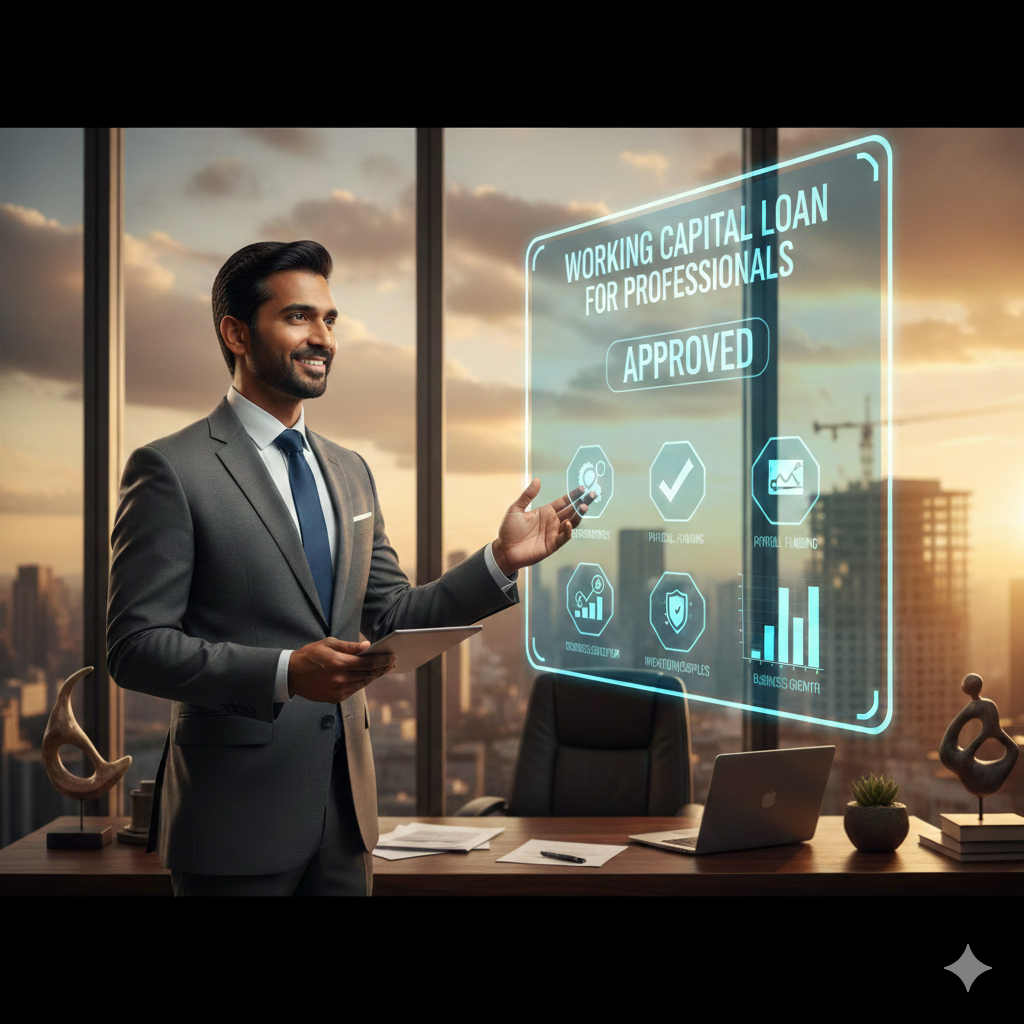
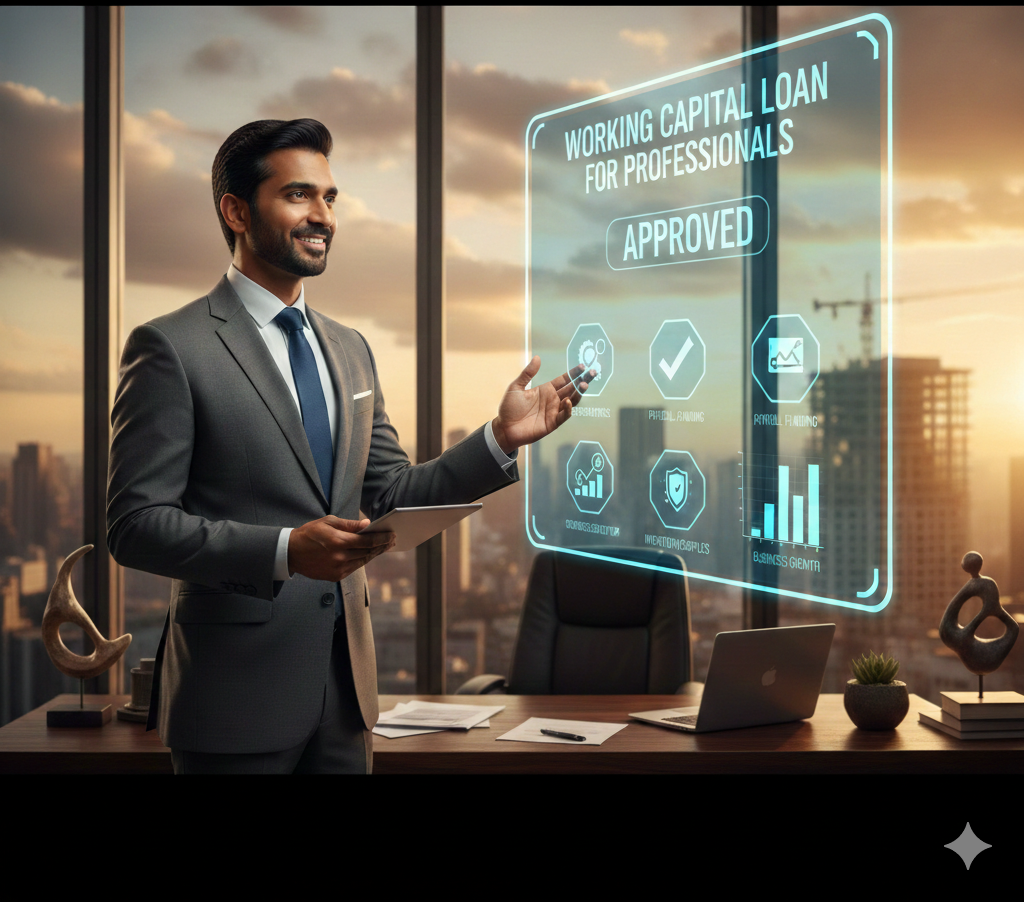
changes services images

diff --git a/src/app/services/_components/ServicesHubClient.tsx b/src/app/services/_components/ServicesHubClient.tsx
@@ -1865,14 +1865,15 @@ export default function ServicesHubClient() {
                         }`}
                         style={{ animationDelay: `${groupIndex * 120 + idx * 50}ms` }}
                       >
-                        <div className="relative h-32 w-full overflow-hidden">
+                        <div className="relative h-48 w-full overflow-hidden">
                           <Image
                             src={getCardImageSrc({ service, fallbackCategory: activeCategory })}
                             alt={service.title}
                             fill={true}
                             sizes="(max-width: 640px) 100vw, (max-width: 1024px) 50vw, 25vw"
-                            className="object-cover object-[30%_23%] opacity-80 transition-transform duration-500 group-hover:scale-105"
+                            className="object-cover object-[50%_5%]  opacity-80 transition-transform duration-500 group-hover:scale-105"
                           />
+                         
                           <div className="absolute inset-0 bg-gradient-to-t from-black/85 via-black/30 to-transparent" />
                         </div>
                         {service.badge && (
@@ -1927,13 +1928,13 @@ export default function ServicesHubClient() {
                   }`}
                   style={{ animationDelay: `${idx * 60}ms` }}
                 >
-                  <div className="relative h-32 w-full overflow-hidden">
+                  <div className="relative h-48 w-full overflow-hidden">
                     <Image
                       src={getCardImageSrc({ service, fallbackCategory: activeCategory })}
                       alt={service.title}
                       fill
                       sizes="(max-width: 640px) 100vw, (max-width: 1024px) 50vw, 25vw"
-                      className="object-cover object-[50%_15%] opacity-80 transition-transform duration-500 group-hover:scale-105"
+                      className="object-cover object-[50%_10%] opacity-80 transition-transform duration-500 group-hover:scale-105"
                     />
                     <div className="absolute inset-0 bg-gradient-to-t from-black/85 via-black/30 to-transparent" />
                   </div>
@@ -1966,8 +1967,8 @@ export default function ServicesHubClient() {
                         Apply Now
                         <ArrowRight className="ml-2 h-4 w-4 transition-transform group-hover:translate-x-1" />
                       </ApplyNowCTAButton>
-                      <Button asChild variant="outline" className="w-full text-white border-white/30 hover:bg-white/10 hover:text-white">
-                        <Link href={service.infoHref}>Learn More</Link>
+                      <Button asChild variant="outline" className="w-full text-gray-700 border-white/30 hover:bg-white/10 hover:text-white">
+                        <Link href={service.infoHref} >Learn More</Link>
                       </Button>
                     </div>
                   </CardContent>
